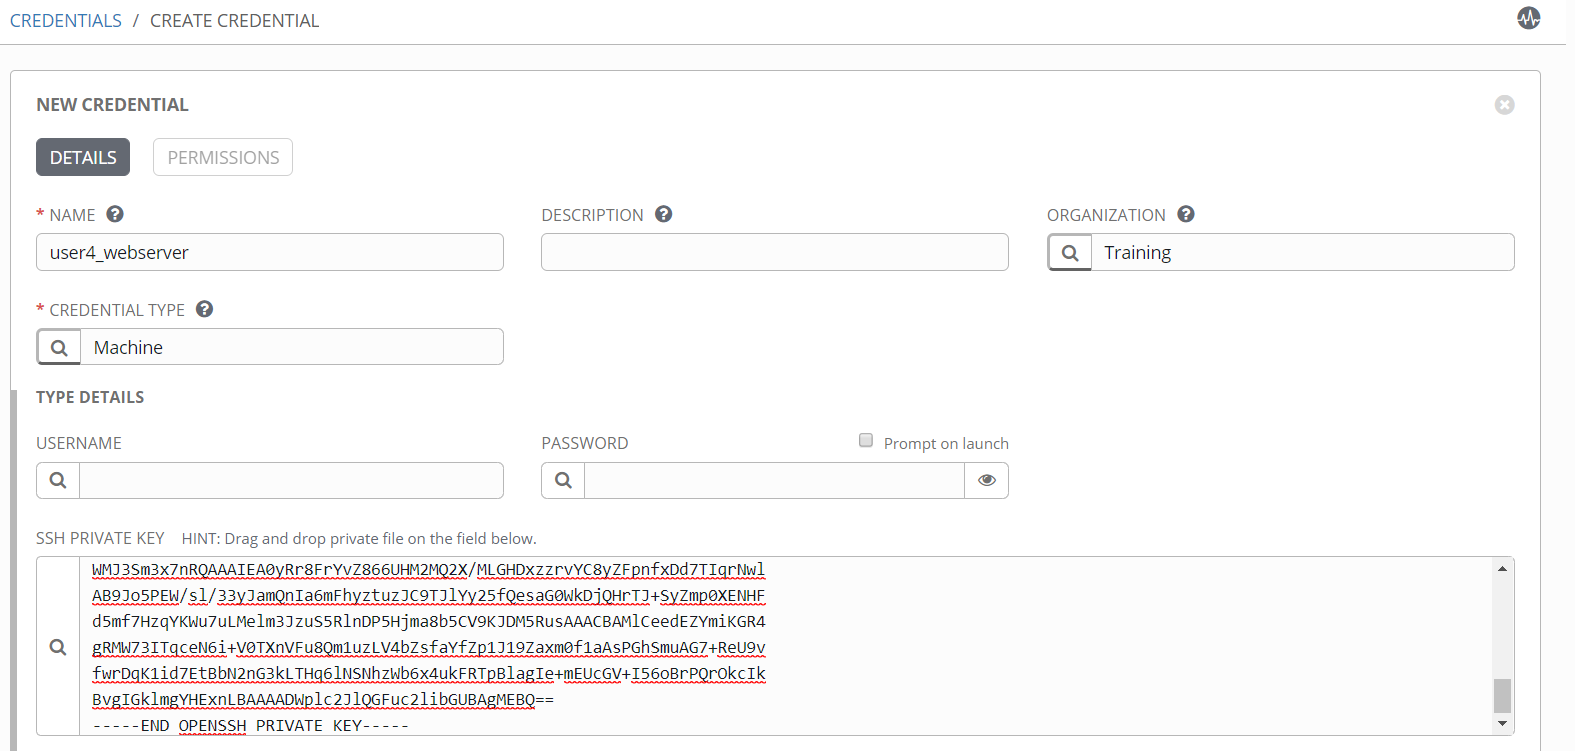
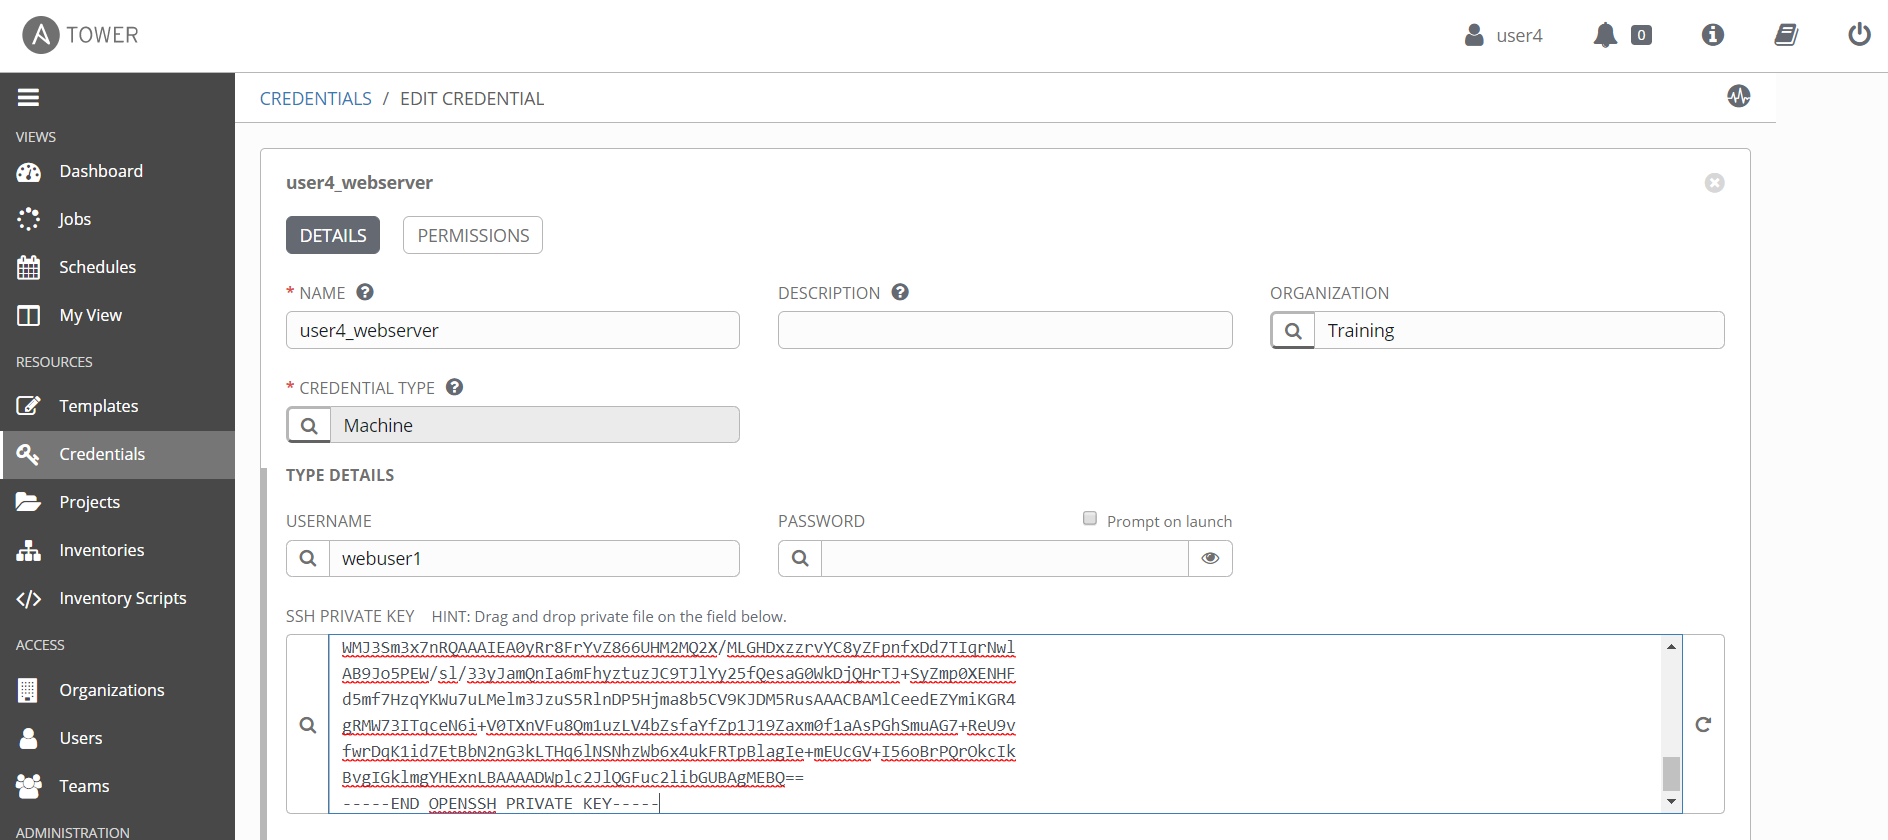
username

diff --git a/lab07/lab7.md b/lab07/lab7.md
@@ -286,6 +286,8 @@ Organization: Training
 
 Credential Type: Machine
 
+Username: __webuserx__ <---- Change to your username
+
 SSH Private Key: --- the key you copied ---
 
 Leave the rest as default and click Save
